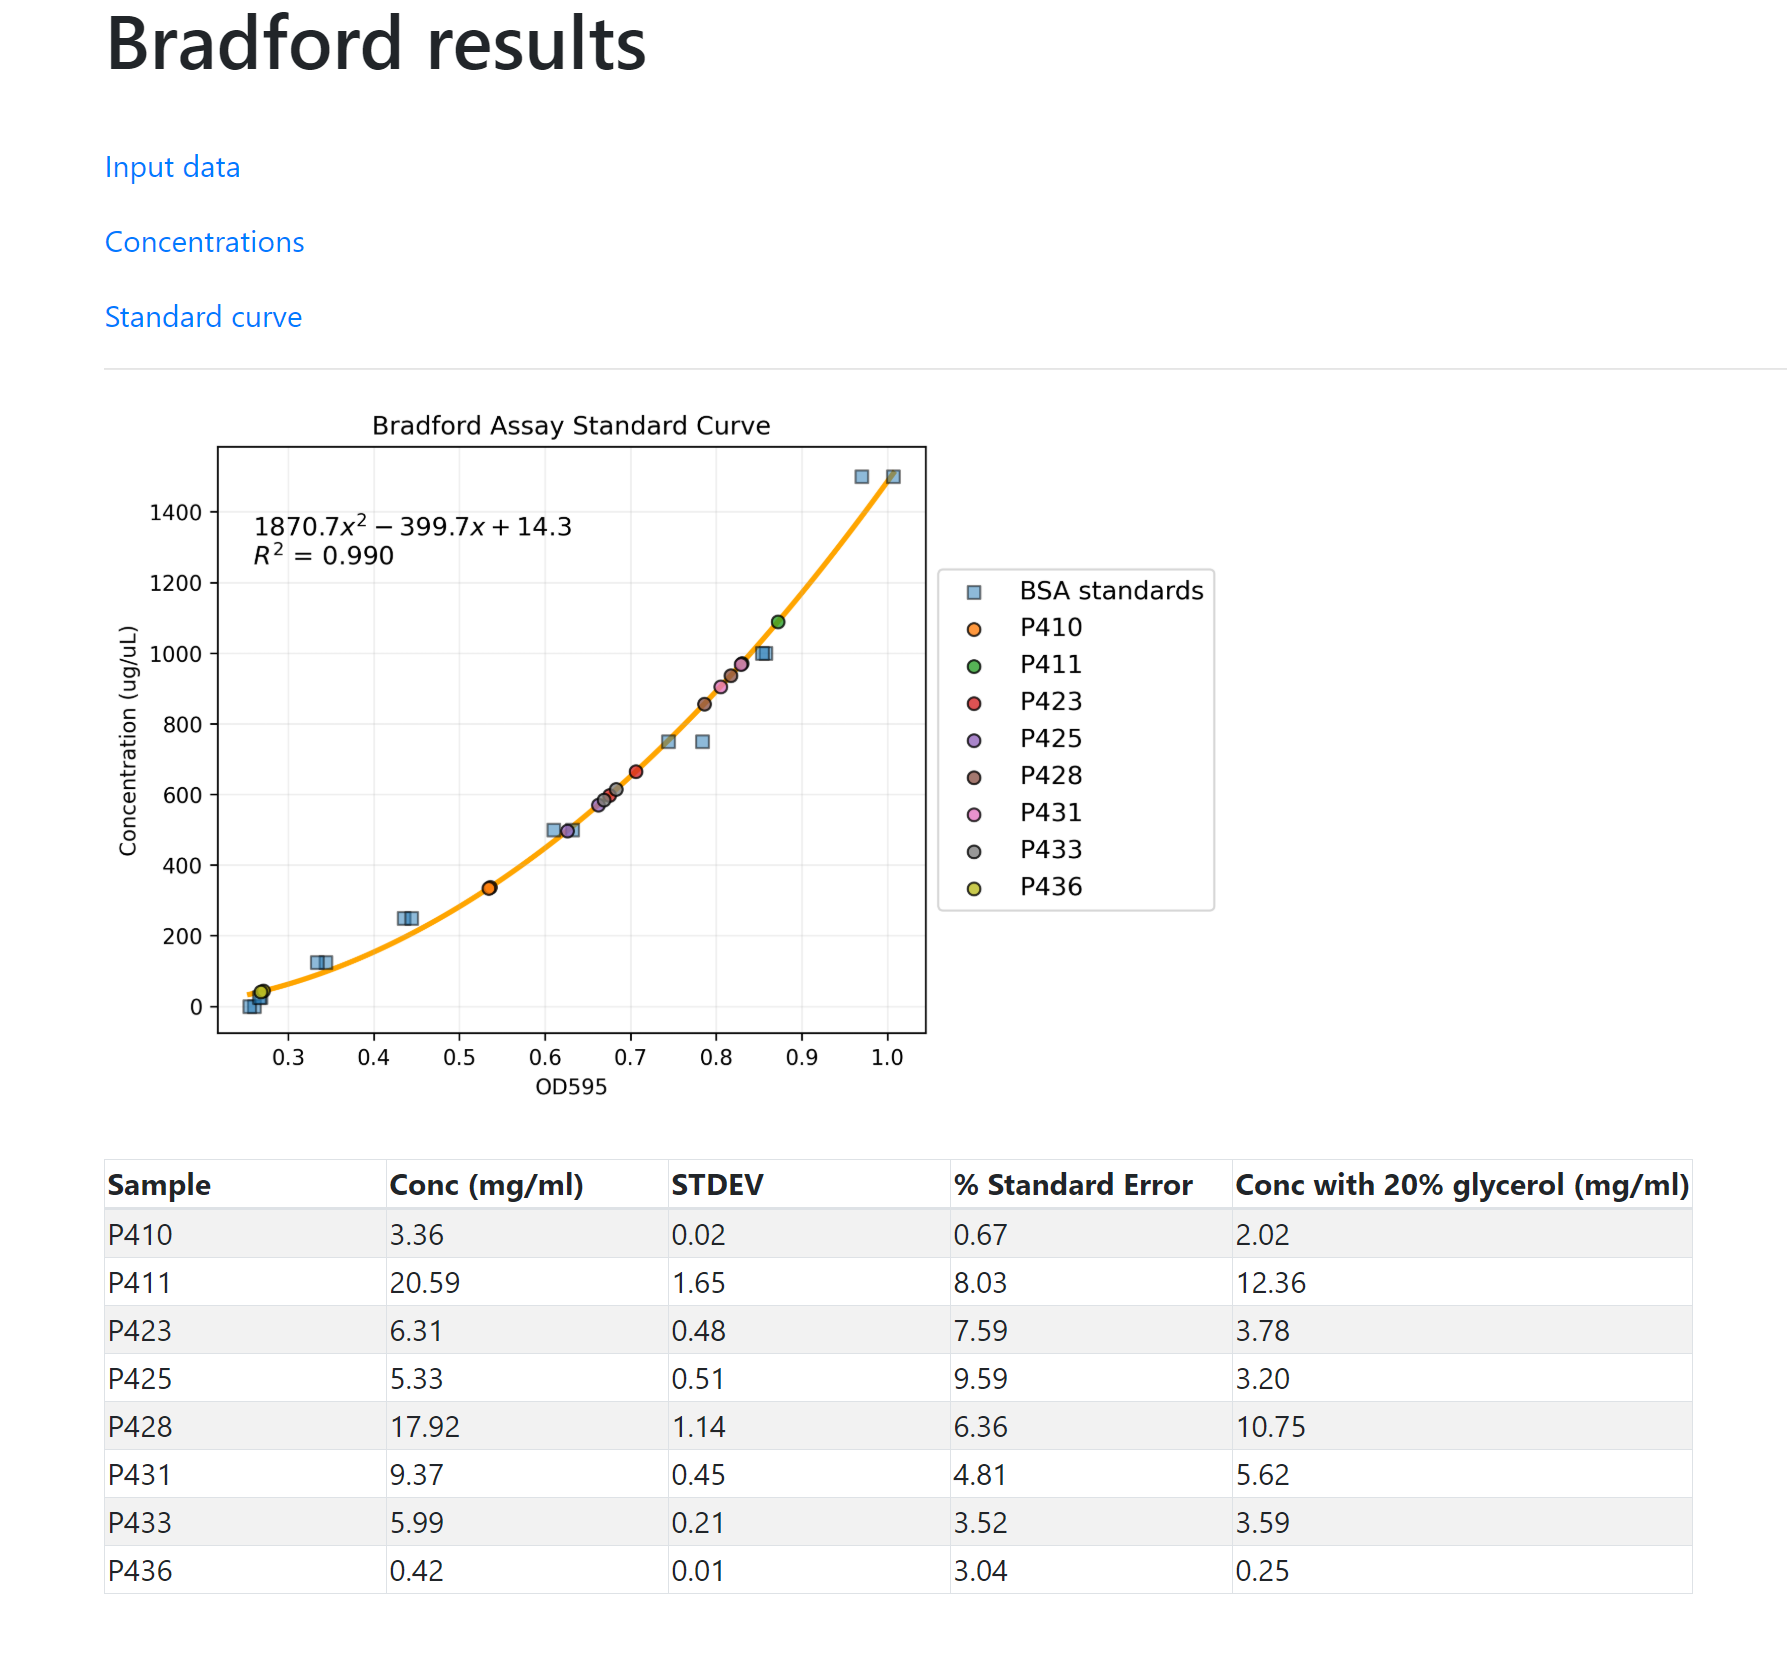
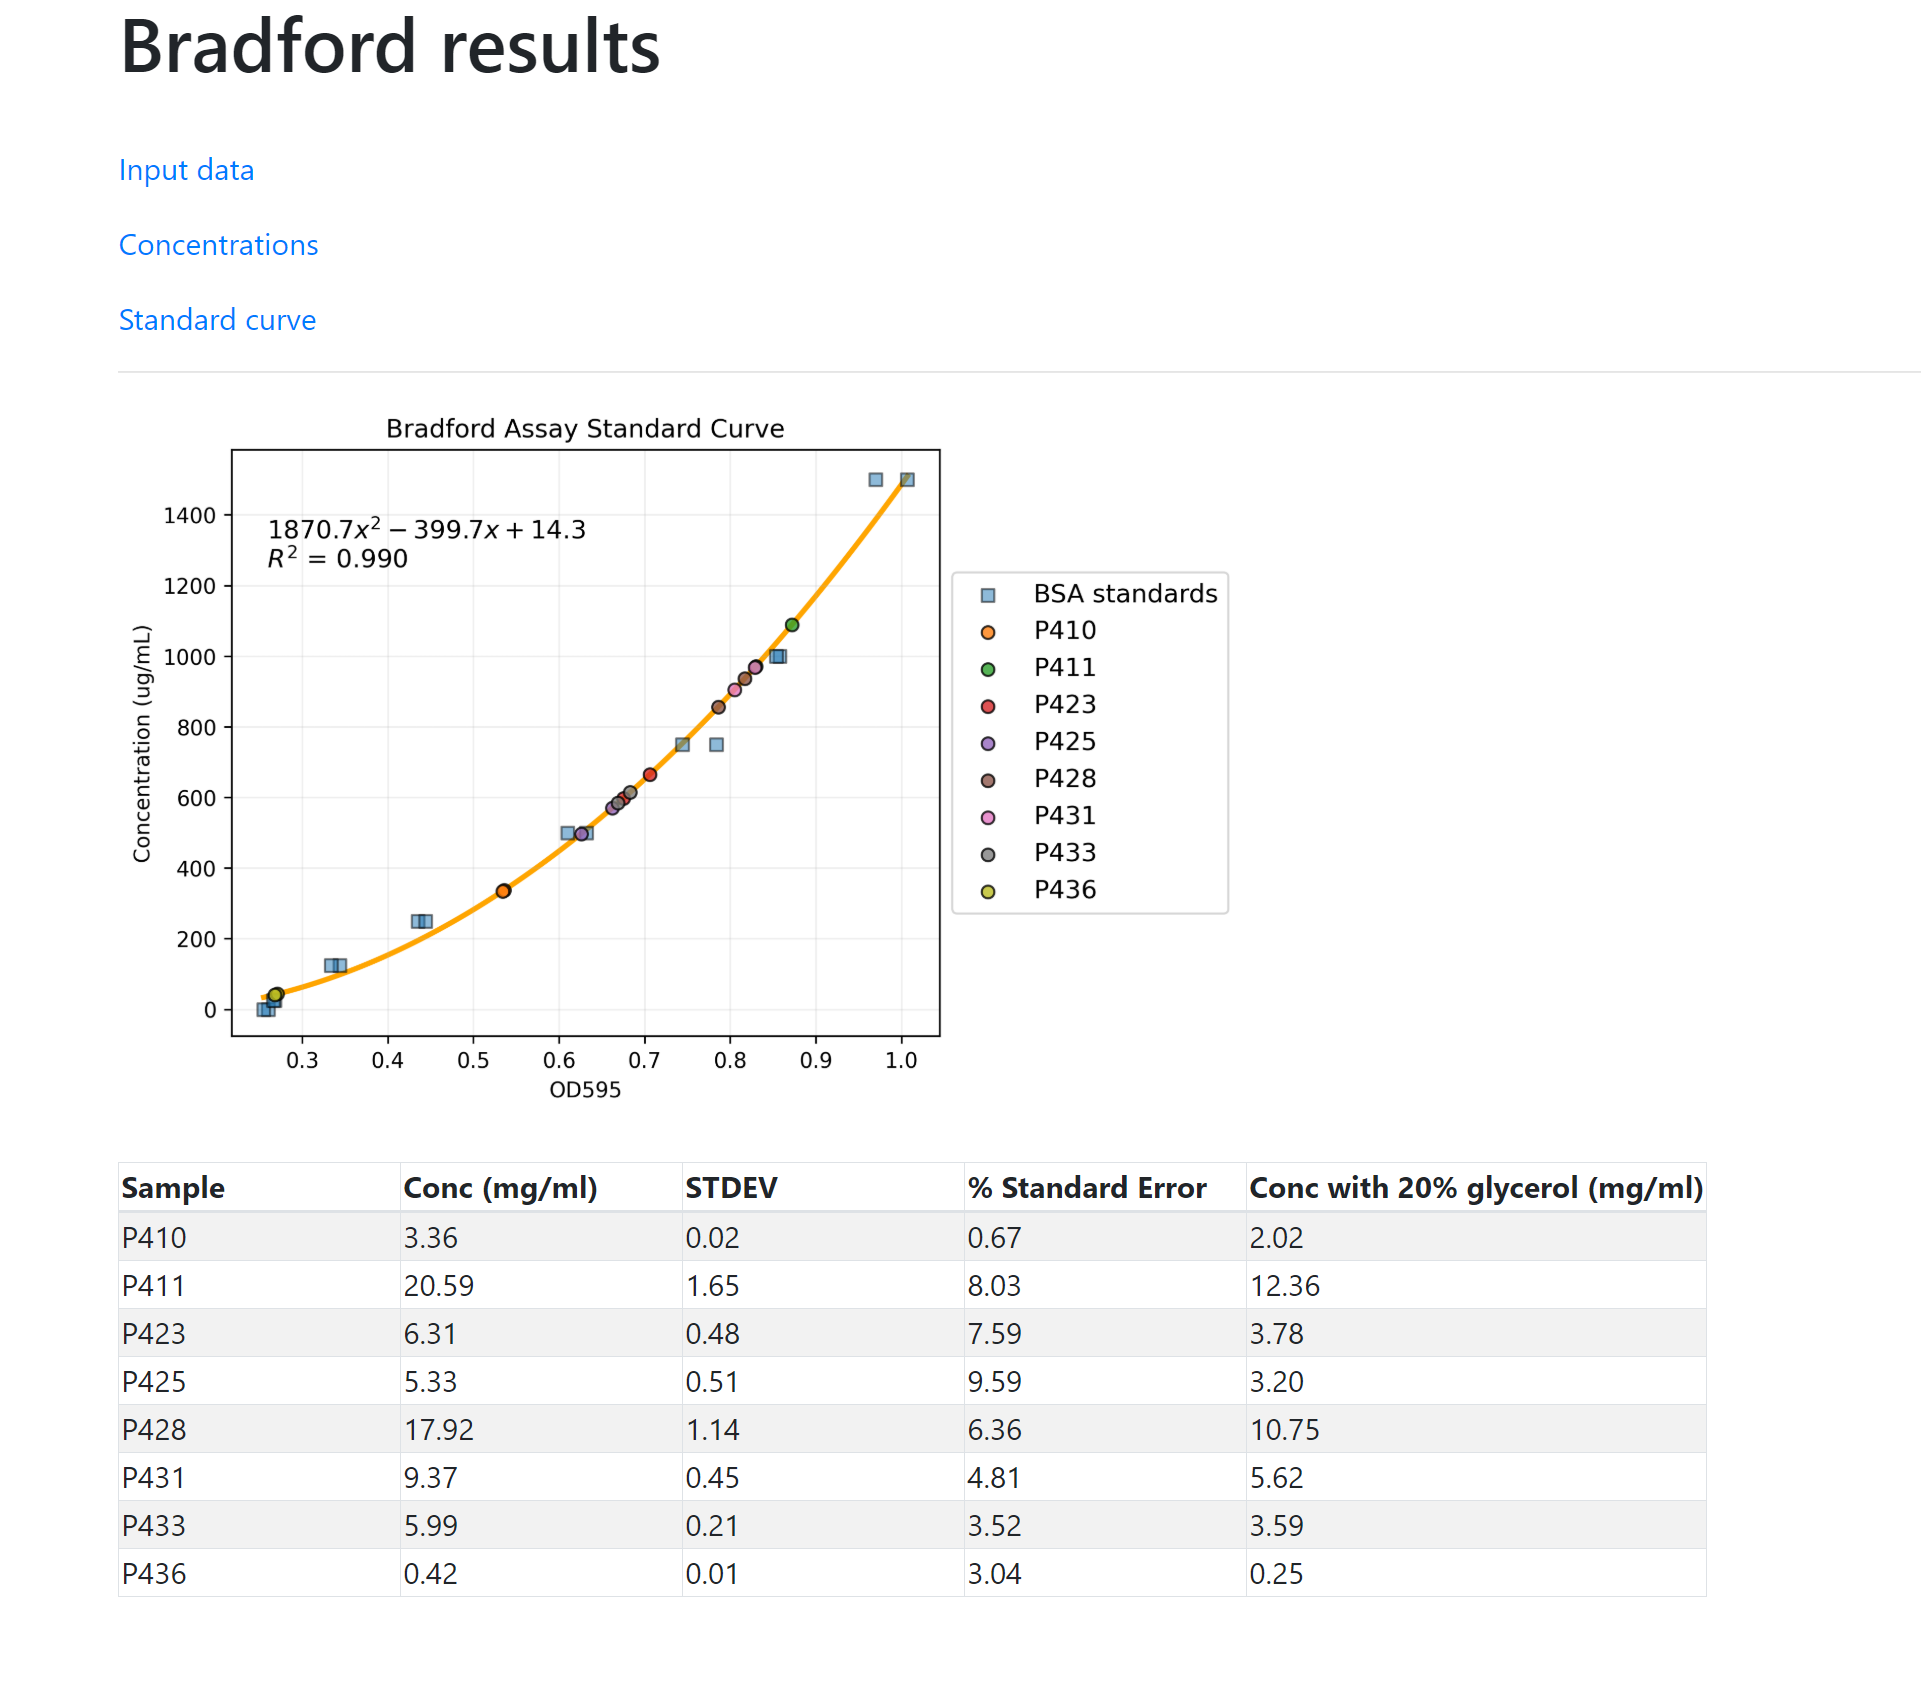
fix wrong units

diff --git a/bradford.py b/bradford.py
@@ -95,7 +95,7 @@ class bradford_calc:
 
         plt.text(0.05, 0.8, annotation_str, transform=ax.transAxes, fontsize='large')
         plt.xlabel('OD595')
-        plt.ylabel('Concentration (ug/uL)')
+        plt.ylabel('Concentration (ug/mL)')
         plt.title('Bradford Assay Standard Curve')
 
         plt.savefig(Path(cwd, 'tmp', f'{self.filename}_std_curve.png'), bbox_inches='tight', dpi=300)
